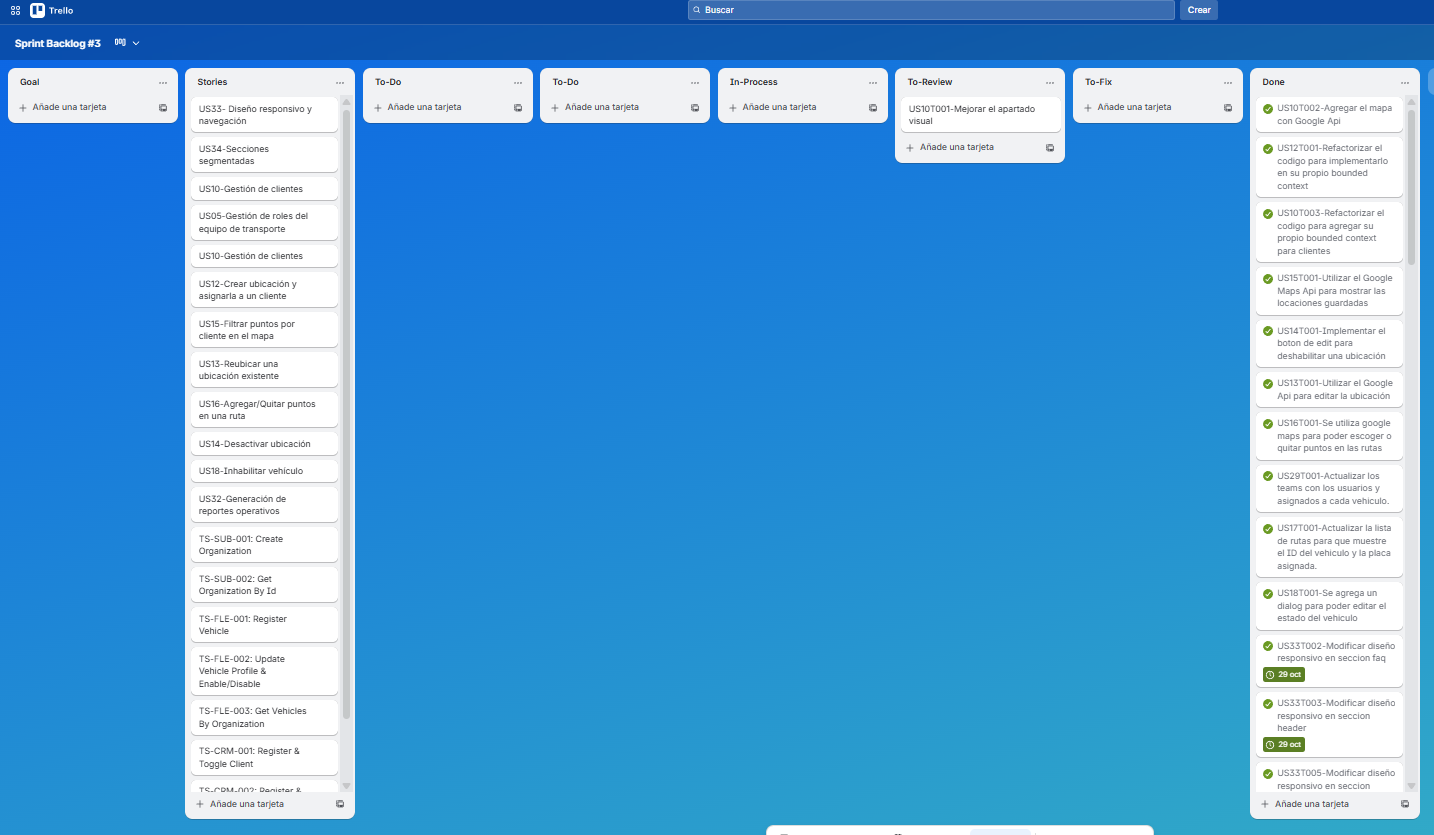
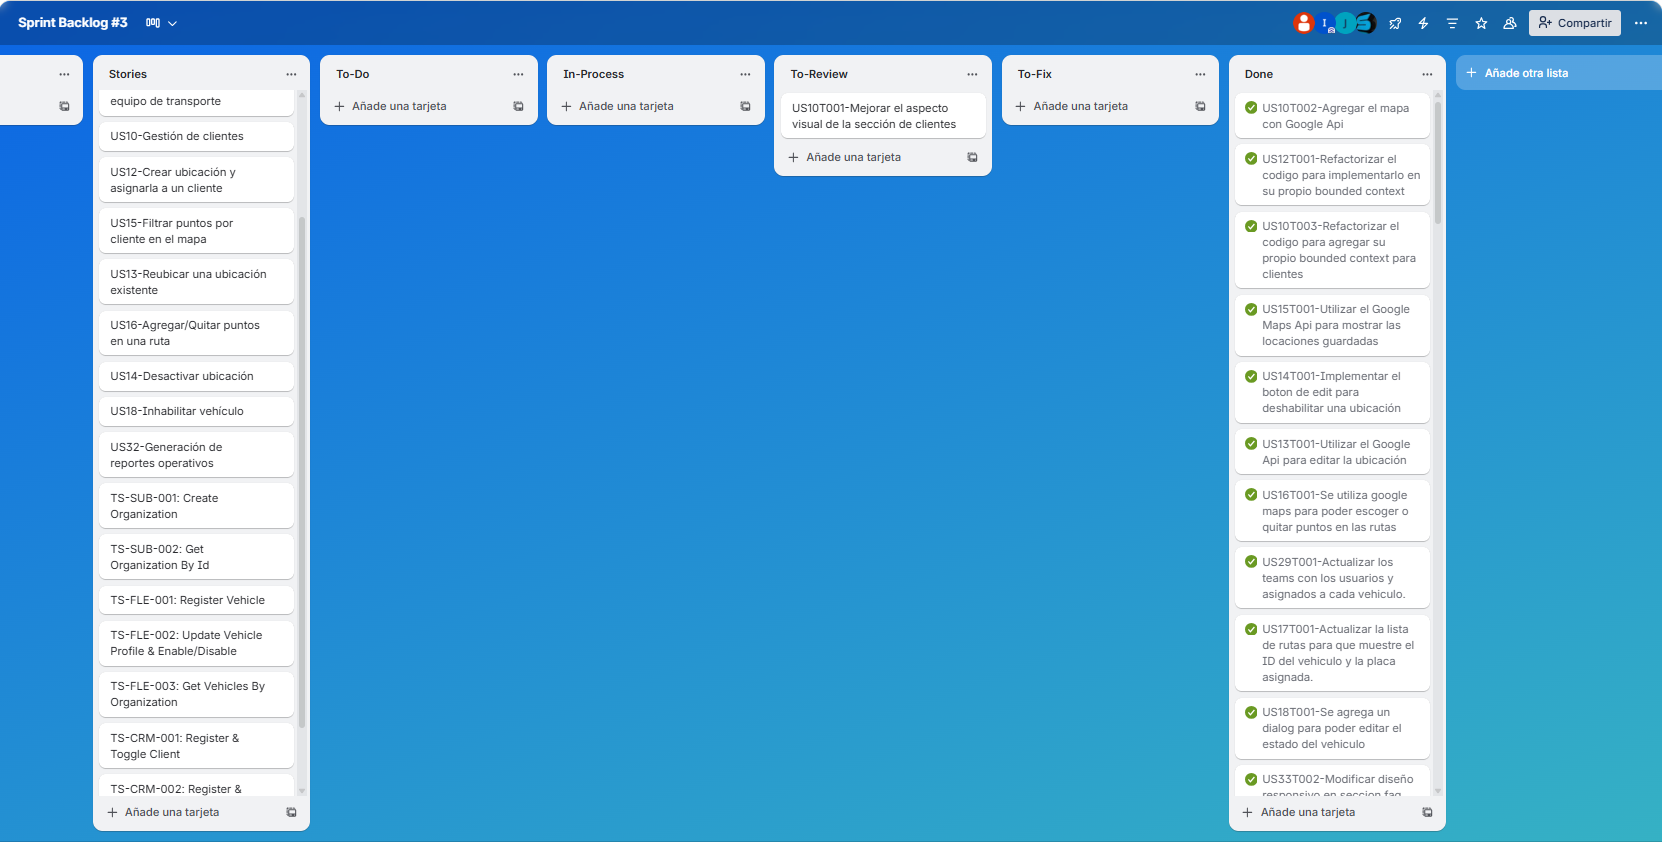
feat(Ch5): Update Chapter 5 with Sprint 3 details and Sprint 4 Backlog

diff --git a/Capitulo_5.md b/Capitulo_5.md
@@ -225,8 +225,8 @@ A continuación, se expone la planificación de nuestro Sprint 1, orientado prin
 <th>Sprint 1</th>
 </tr>
 <tr>
-<td><strong>Sprint Planning Background</strong></td>
-<td></td>
+<td colspan="2"><strong>Sprint Planning Background</strong></td>
+
 </tr>
 <tr>
 <td><strong>Date</strong></td>
@@ -257,8 +257,8 @@ A continuación, se expone la planificación de nuestro Sprint 1, orientado prin
 <td>Dado que este es el sprint inicial, no se presenta una retroalimentación del sprint anterior.</td>
 </tr>
 <tr>
-<td><strong>Sprint Goal & User Stories</strong></td>
-<td></td>
+<td colspan="2"><strong>Sprint Goal & User Stories</strong></td>
+
 </tr>
 <tr>
 <td><strong>Sprint 1 Goal</strong></td>
@@ -614,8 +614,7 @@ Gracias a esta organización, se logró cumplir de manera efectiva el objetivo d
 <th>Sprint 2</th>
 </tr>
 <tr>
-<td><strong>Sprint Planning Background</strong></td>
-<td></td>
+<td colspan="2"><strong>Sprint Planning Background</strong></td>
 </tr>
 <tr>
 <td><strong>Date</strong></td>
@@ -646,8 +645,8 @@ Gracias a esta organización, se logró cumplir de manera efectiva el objetivo d
 <td>El trabajo en equipo no fue tan eficaz como se esperaba debido a que, al ser un equipo nuevo, el líder no conocía completamente las fortalezas y debilidades de cada miembro. Esto resultó en asignaciones de tareas que no aprovecharon al máximo las capacidades individuales. Además, no se siguió estrictamente el statement de trabajo, especialmente en la fase de ejecución, donde se desviaron algunos aspectos del plan original. Sin embargo, también se identificaron aspectos positivos: el equipo logró comprender profundamente el problema del usuario y sus necesidades reales, lo cual fue crucial para proponer funcionalidades apropiadas y desarrollar un entendimiento sólido del lenguaje ubicuo del dominio. Para Sprint 2, se implementará una mejor comunicación, evaluación de habilidades del equipo y seguimiento más estricto del plan de trabajo.</td>
 </tr>
 <tr>
-<td><strong>Sprint Goal & User Stories</strong></td>
-<td></td>
+<td colspan="2"><strong>Sprint Goal & User Stories</strong></td>
+
 </tr>
 <tr>
 <td><strong>Sprint 2 Goal</strong></td>
@@ -1023,8 +1022,8 @@ Durante el Sprint 2, el equipo demostró una colaboración efectiva enfocada en 
 <th>Sprint 3</th>
 </tr>
 <tr>
-<td><strong>Sprint Planning Background</strong></td>
-<td></td>
+<td colspan="2"><strong>Sprint Planning Background</strong></td>
+
 </tr>
 <tr>
 <td><strong>Date</strong></td>
@@ -1055,8 +1054,7 @@ Durante el Sprint 2, el equipo demostró una colaboración efectiva enfocada en 
 <td>El equipo enfrentó varios retos durante el Sprint 2, especialmente relacionados con la integración del código y el trabajo colaborativo. Se presentaron conflictos de merge al unificar los avances individuales, lo que afectó el ritmo de desarrollo. Además, persistió parte de la deuda técnica del sprint anterior, especialmente en la comprensión de la arquitectura y simulación del backend. A pesar de ello, el equipo mostró una mejora significativa en comunicación, coordinación y dominio de las herramientas. Se destaca el cumplimiento del diseño de producto y la capacidad de resolver problemas técnicos de manera colaborativa. Para el siguiente sprint se priorizará la reducción de deuda técnica y la implementación completa de las funcionalidades restantes.</td>
 </tr>
 <tr>
-<td><strong>Sprint Goal & User Stories</strong></td>
-<td></td>
+<td colspan="2"><strong>Sprint Goal & User Stories</strong></td>
 </tr>
 <tr>
 <td><strong>Sprint 3 Goal</strong></td>
@@ -1064,11 +1062,11 @@ Durante el Sprint 2, el equipo demostró una colaboración efectiva enfocada en 
 </tr>
 <tr>
 <td><strong>Sprint 3 Velocity</strong></td>
-<td></td>
+<td>30</td>
 </tr>
 <tr>
 <td><strong>Sum of Story Points</strong></td>
-<td></td>
+<td>30</td>
 </tr>
 </table>
 
@@ -1167,7 +1165,7 @@ En esta sección se presenta la **Leadership-and-Collaboration Matrix (LACX)** c
 
 #### 5.2.3.3. Sprint Backlog 3.
 
-<img src="./Resources/Capitulo_5/Trello_sprint3.jpg" alt="Trello Sprint 3">
+<img src="Resources/Capitulo_5/Sprint3/SprintBacklog.png" alt="Trello Sprint 3">
 <br>
 <a href="https://trello.com/b/1n7Mp1Xp/sprint-backlog-3" target="_blank">
   <span>Tablero Sprint 3 en Trello</span>
@@ -1325,7 +1323,63 @@ A continuación, se presenta el Sprint Backlog correspondiente al **Sprint 3**, 
 
 #### 5.2.3.6. Services Documentation Evidence for Sprint Review.
 
+Durante este sprint se completó una versión preliminar del backend de la aplicación Rutana utilizando la estructura net9.0, con el lenguaje C# y la plantilla de Web API, con despliegue exitoso en onRender. Aunque no se completaron todas los endpoint que se planificaron, se logró implementar los bounded contexts core y desplegar sus respectivos endpoint.
 
+**Descripción del Logro:**
+
+- Implementación del backend con net9.0 y C#
+- Desarrollo de los bounded contexts principales (Subscription, Fleet & Resource Management, Customer & Location Management)
+- Implementación de los metodos HTTP: Get, Post, Put y Patch
+- Deployment exitoso en onRender
+
+Recursos del Sprint
+
+<table>
+<tr>
+<th>Recurso</th>
+<th>Acción implementada</th>
+<th>Método HTTP</th>
+<th>URL / Endpoint</th>
+<th>Link de repositorio</th>
+</tr>
+<tr>
+<td>Backend Application</td>
+<td>Aplicación web Api</td>
+<td>GET</td>
+<td>https://backend-webapplication.onrender.com/swagger/index.html</td>
+<td>https://github.com/QoriTech-7468/BackEnd-WebApplication.git</td>
+</tr>
+<tr>
+<td>Backend Application</td>
+<td>Aplicación web Api</td>
+<td>Post</td>
+<td>https://backend-webapplication.onrender.com/swagger/index.html</td>
+<td>https://github.com/QoriTech-7468/BackEnd-WebApplication.git</td>
+</tr>
+<tr>
+<td>Backend Application</td>
+<td>Aplicación web Api</td>
+<td>Put</td>
+<td>https://backend-webapplication.onrender.com/swagger/index.html</td>
+<td>https://github.com/QoriTech-7468/BackEnd-WebApplication.git</td>
+</tr>
+<tr>
+<td>Backend Application</td>
+<td>Aplicación web Api</td>
+<td>Patch</td>
+<td>https://backend-webapplication.onrender.com/swagger/index.html</td>
+<td>https://github.com/QoriTech-7468/BackEnd-WebApplication.git</td>
+</tr>
+<tr>
+</table>
+
+**Documentación de Servicios:**
+
+1. **API Documentation**: Documentación de los endpoint con la estructura net9.0
+2. **Component Documentation**: Documentación de componentes Vue.js desarrollados con PrimeVue
+3. **Deployment Guide**: Guía de despliegue en onRender con configuración de producción
+4. **Architecture Documentation**: Documentación de la arquitectura con Domain Driven Design
+5. **Repository Documentation**: Documentación completa del código fuente en GitHub con 89 commits
 
 #### 5.2.3.7. Software Deployment Evidence for Sprint Review.
 
@@ -1342,8 +1396,8 @@ A continuación, se presenta el Sprint Backlog correspondiente al **Sprint 3**, 
 <th>Sprint 4</th>
 </tr>
 <tr>
-<td><strong>Sprint Planning Background</strong></td>
-<td></td>
+<td colspan="2"><strong>Sprint Planning Background</strong></td>
+
 </tr>
 <tr>
 <td><strong>Date</strong></td>
@@ -1374,8 +1428,7 @@ A continuación, se presenta el Sprint Backlog correspondiente al **Sprint 3**, 
 <td> ... </td>
 </tr>
 <tr>
-<td><strong>Sprint Goal & User Stories</strong></td>
-<td></td>
+<td colspan="2"><strong>Sprint Goal & User Stories</strong></td>
 </tr>
 <tr>
 <td><strong>Sprint 4 Goal</strong></td>
@@ -1392,12 +1445,26 @@ A continuación, se presenta el Sprint Backlog correspondiente al **Sprint 3**, 
 </table>
 
 ### 5.2.4.2. Aspect Leaders and Collaborators.
+
+
 ### 5.2.4.3.Sprint Backlog 4.
+
+<img src="Resources/Capitulo_5/Trello_sprint4.png" alt="Trello Sprint 4">
+<br>
+<a href="https://trello.com/b/0eTLOSys/sprint-backlog-4" target="_blank">
+  <span>Tablero Sprint 4 en Trello</span>
+</a>
+
 ### 5.2.4.4.Development Evidence for Sprint Review.
+
 ### 5.2.4.5.Execution Evidence for Sprint Review.
+
 ### 5.2.4.6.Services Documentation Evidence for Sprint Review.
+
 ### 5.2.4.7.Software Deployment Evidence for Sprint Review.
+
 ### 5.2.4.8.Team Collaboration Insights during Sprint.
+
 
 #### 5.3. Validation Interviews.
 
